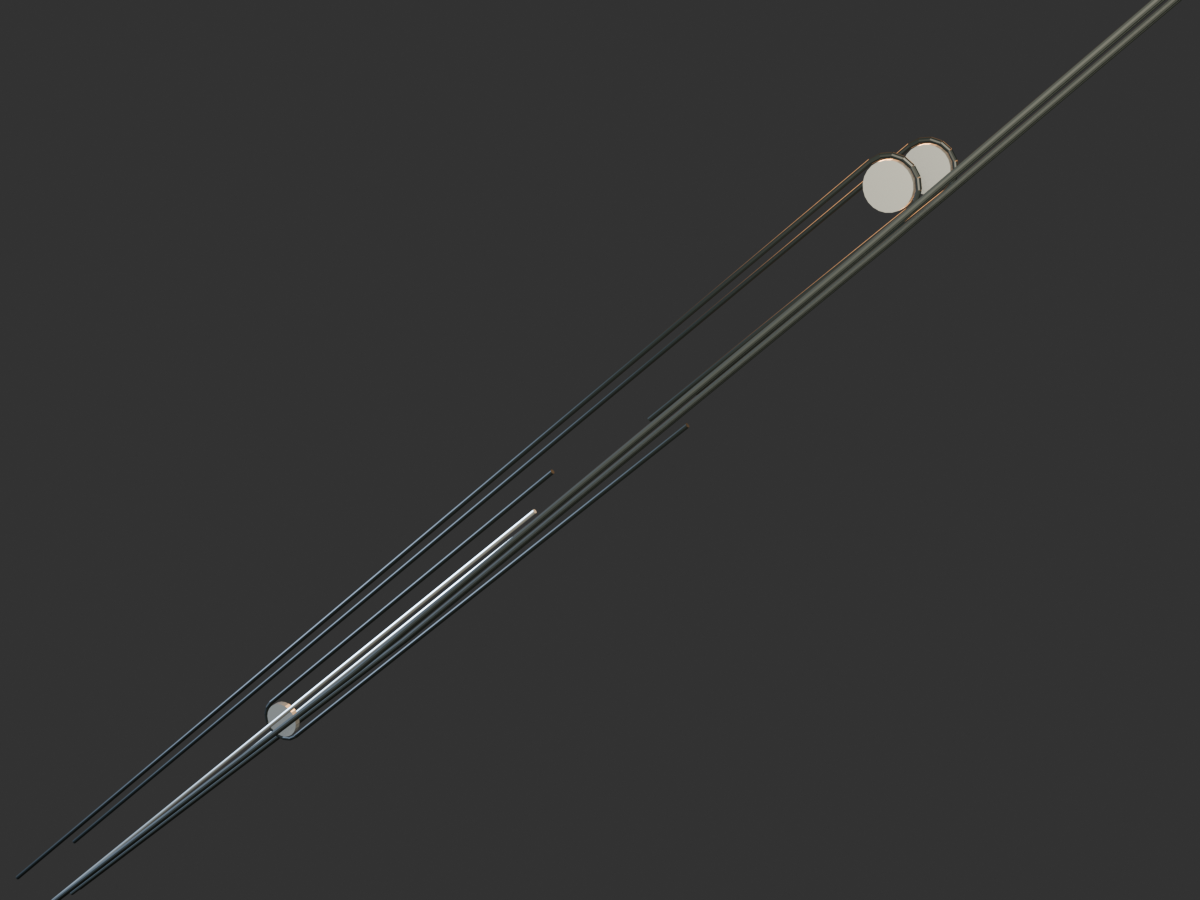
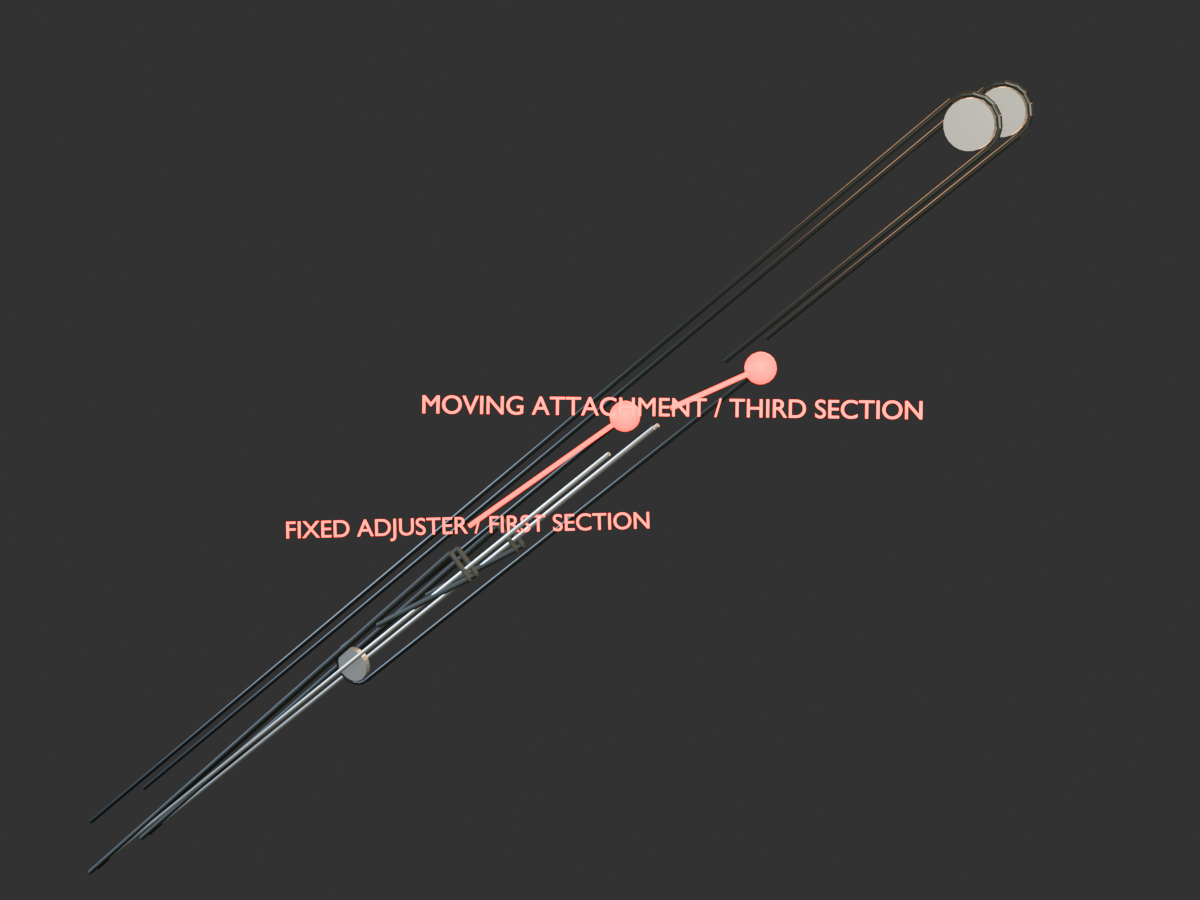
Label 742 mechanical evidence renders

diff --git a/scripts/render_742_preview.py b/scripts/render_742_preview.py
@@ -41,6 +41,26 @@ def proof_beam(name, start, end, radius, material):
     return target
 
 
+def proof_label(name, body, location, size, material):
+    bpy.ops.object.text_add(location=location, rotation=(math.pi / 2, 0, 0))
+    target = bpy.context.object
+    target.name = name
+    target.data.body = body
+    target.data.align_x = "CENTER"
+    target.data.align_y = "CENTER"
+    target.data.size = size
+    target.data.extrude = .008
+    target.data.materials.append(material)
+    return target
+
+
+def face_labels(labels, active_camera):
+    for target in labels:
+        direction = active_camera.location - target.location
+        target.rotation_mode = "QUATERNION"
+        target.rotation_quaternion = direction.to_track_quat("Z", "Y")
+
+
 def mesh_world_points(names):
     return [target.matrix_world @ vertex.co for name in names
             for target in [bpy.data.objects[name]] for vertex in target.data.vertices]
@@ -193,7 +213,8 @@ for obj in steer_cutaway:
     obj.hide_render = False
 pose_circle_steering(0.0)
 
-pose_mechanisms(0.61, 0.68)
+cutaway_pose = solved_pose(0.61, 0.68)
+apply_solved_pose(cutaway_pose)
 camera.location = (12.0, 14.0, 9.2)
 point_at(camera, (2.2, 0, 5.0))
 scene.render.filepath = str(OUTPUT_DIR / "742-extended-front-left.png")
@@ -217,8 +238,34 @@ chain_objects = [obj for obj in bpy.data.objects if any(token in obj.name for to
 chain_center = sum((obj.matrix_world.translation for obj in chain_objects), Vector()) / len(chain_objects)
 camera.location = chain_center + Vector((3.8, -7.2, 2.6))
 point_at(camera, chain_center)
+chain_context_mat = bpy.data.materials.new("ChainContextOrange")
+chain_context_mat.diffuse_color = (1.0, .16, .02, 1.0)
+chain_context_mat.use_nodes = True
+chain_bsdf = chain_context_mat.node_tree.nodes.get("Principled BSDF")
+chain_bsdf.inputs["Base Color"].default_value = (1.0, .04, .005, 1.0)
+if "Emission Color" in chain_bsdf.inputs:
+    chain_bsdf.inputs["Emission Color"].default_value = (1.0, .015, .002, 1.0)
+    chain_bsdf.inputs["Emission Strength"].default_value = 3.0
+chain_context = []
+for index, (label, beam_name) in enumerate((("FIXED ADJUSTER / FIRST SECTION", "RetractChain_C"),
+                                            ("MOVING ATTACHMENT / THIRD SECTION", "RetractChain_C_Moving"))):
+    beam_obj = bpy.data.objects[beam_name]
+    half_authored = float(beam_obj.get("authored_length_m")) / 2
+    endpoint = beam_obj.matrix_world @ Vector((0, 0, -half_authored if index == 0 else half_authored))
+    bpy.ops.mesh.primitive_uv_sphere_add(segments=20, ring_count=10, radius=.075, location=endpoint)
+    marker = bpy.context.object
+    marker.data.materials.append(chain_context_mat)
+    chain_context.append(marker)
+    label_location = chain_center + Vector((-.55 if index == 0 else .55, -.35, -.38 if index == 0 else .38))
+    chain_context.append(proof_beam(f"Proof_{beam_name}_Leader", endpoint, label_location,
+                                    .012, chain_context_mat))
+    chain_context.append(proof_label(f"Proof_{beam_name}_Anchor", label,
+                                     label_location, .12, chain_context_mat))
+face_labels([obj for obj in chain_context if obj.type == "FONT"], camera)
 scene.render.filepath = str(OUTPUT_DIR / "742-retract-chain-routing-cutaway.png")
 bpy.ops.render.render(write_still=True)
+for obj in chain_context:
+    bpy.data.objects.remove(obj, do_unlink=True)
 for obj in chain_cutaway:
     obj.hide_render = False
 pose_mechanisms(1.0, 1.0)
@@ -231,10 +278,28 @@ datum_bsdf.inputs["Roughness"].default_value = 0.24
 if "Emission Color" in datum_bsdf.inputs:
     datum_bsdf.inputs["Emission Color"].default_value = (1.0, 0.008, 0.002, 1.0)
     datum_bsdf.inputs["Emission Strength"].default_value = 2.0
+label_mat = bpy.data.materials.new("ProofLabelWhite")
+label_mat.diffuse_color = (1.0, .96, .88, 1.0)
+label_mat.use_nodes = True
+label_bsdf = label_mat.node_tree.nodes.get("Principled BSDF")
+label_bsdf.inputs["Base Color"].default_value = (1.0, .96, .88, 1.0)
+if "Emission Color" in label_bsdf.inputs:
+    label_bsdf.inputs["Emission Color"].default_value = (1.0, .78, .45, 1.0)
+    label_bsdf.inputs["Emission Strength"].default_value = 2.0
 max_lift_forks = mesh_world_points(("ForkL", "ForkR"))
 max_lift_surface = max(point.z for point in max_lift_forks)
 level_datum = proof_beam("Proof_MaxLiftForkLevel", (2.2, -1.1, max_lift_surface + .08),
                          (5.2, -1.1, max_lift_surface + .08), .022, datum_mat)
+lift_ground_datum = proof_beam("Proof_MaxLiftGround", (2.2, -1.1, .04),
+                               (5.2, -1.1, .04), .022, datum_mat)
+lift_dimension = proof_beam("Proof_MaxLiftDimension", (5.05, -1.1, .04),
+                            (5.05, -1.1, max_lift_surface + .08), .018, datum_mat)
+lift_labels = [
+    proof_label("Proof_MaxLiftValue", "ACTUAL GLB FORK LOAD SURFACE  12.798856 m",
+                (3.55, -1.12, max_lift_surface + .38), .24, label_mat),
+    proof_label("Proof_MaxLiftGroundLabel", "GROUND DATUM  0.000 m",
+                (4.25, -1.12, .68), .22, label_mat),
+]
 bpy.ops.object.light_add(type="AREA", location=(8.0, -5.0, 16.0))
 max_lift_key = bpy.context.object
 max_lift_key.name = "MaxLiftKey"
@@ -246,6 +311,7 @@ scene.render.resolution_y = 1200
 camera.data.lens = 52
 camera.location = (2.0, -28.0, 13.5)
 point_at(camera, (2.0, 0, 7.0))
+face_labels(lift_labels, camera)
 scene.render.filepath = str(OUTPUT_DIR / "742-maximum-lift-level-forks.png")
 bpy.ops.render.render(write_still=True)
 fork_cutaway = [target for target in bpy.data.objects
@@ -264,6 +330,10 @@ bpy.ops.render.render(write_still=True)
 for target in fork_cutaway:
     target.hide_render = False
 level_datum.hide_render = True
+lift_ground_datum.hide_render = True
+lift_dimension.hide_render = True
+for target in lift_labels:
+    target.hide_render = True
 max_lift_key.hide_render = True
 pose_mechanisms(3 / 69, 1.0)
 bpy.context.view_layer.update()
@@ -282,12 +352,21 @@ datum_objects = [
                (load_center, -1.45, 2.25), .018, datum_mat),
     proof_beam("Proof_LoadCenterCross", (load_center - .18, -1.45, 1.04),
                (load_center + .18, -1.45, 1.04), .024, datum_mat),
+    proof_beam("Proof_24InLoadCenter", (fork_heel, -1.45, 1.18),
+               (load_center, -1.45, 1.18), .018, datum_mat),
+    proof_label("Proof_FrontTirePlaneLabel", "FRONT TIRE TREAD PLANE",
+                (front_tire_plane, -1.47, .34), .20, label_mat),
+    proof_label("Proof_LoadCenterLabel", "24 in / 0.6096 m LOAD CENTER",
+                ((fork_heel + load_center) / 2, -1.47, 1.46), .20, label_mat),
+    proof_label("Proof_ReachValue", "SELECTED RECONSTRUCTED 3 deg POSE   8.867096 m REACH",
+                ((front_tire_plane + load_center) / 2, -1.47, 2.92), .24, label_mat),
 ]
 scene.render.resolution_x = 1400
 scene.render.resolution_y = 800
 camera.data.lens = 52
 camera.location = (4.8, -30.0, 5.6)
 point_at(camera, (4.8, 0, 1.45))
+face_labels([target for target in datum_objects if target.type == "FONT"], camera)
 scene.render.filepath = str(OUTPUT_DIR / "742-maximum-reach-24in-load-center.png")
 bpy.ops.render.render(write_still=True)
 for target in datum_objects:
